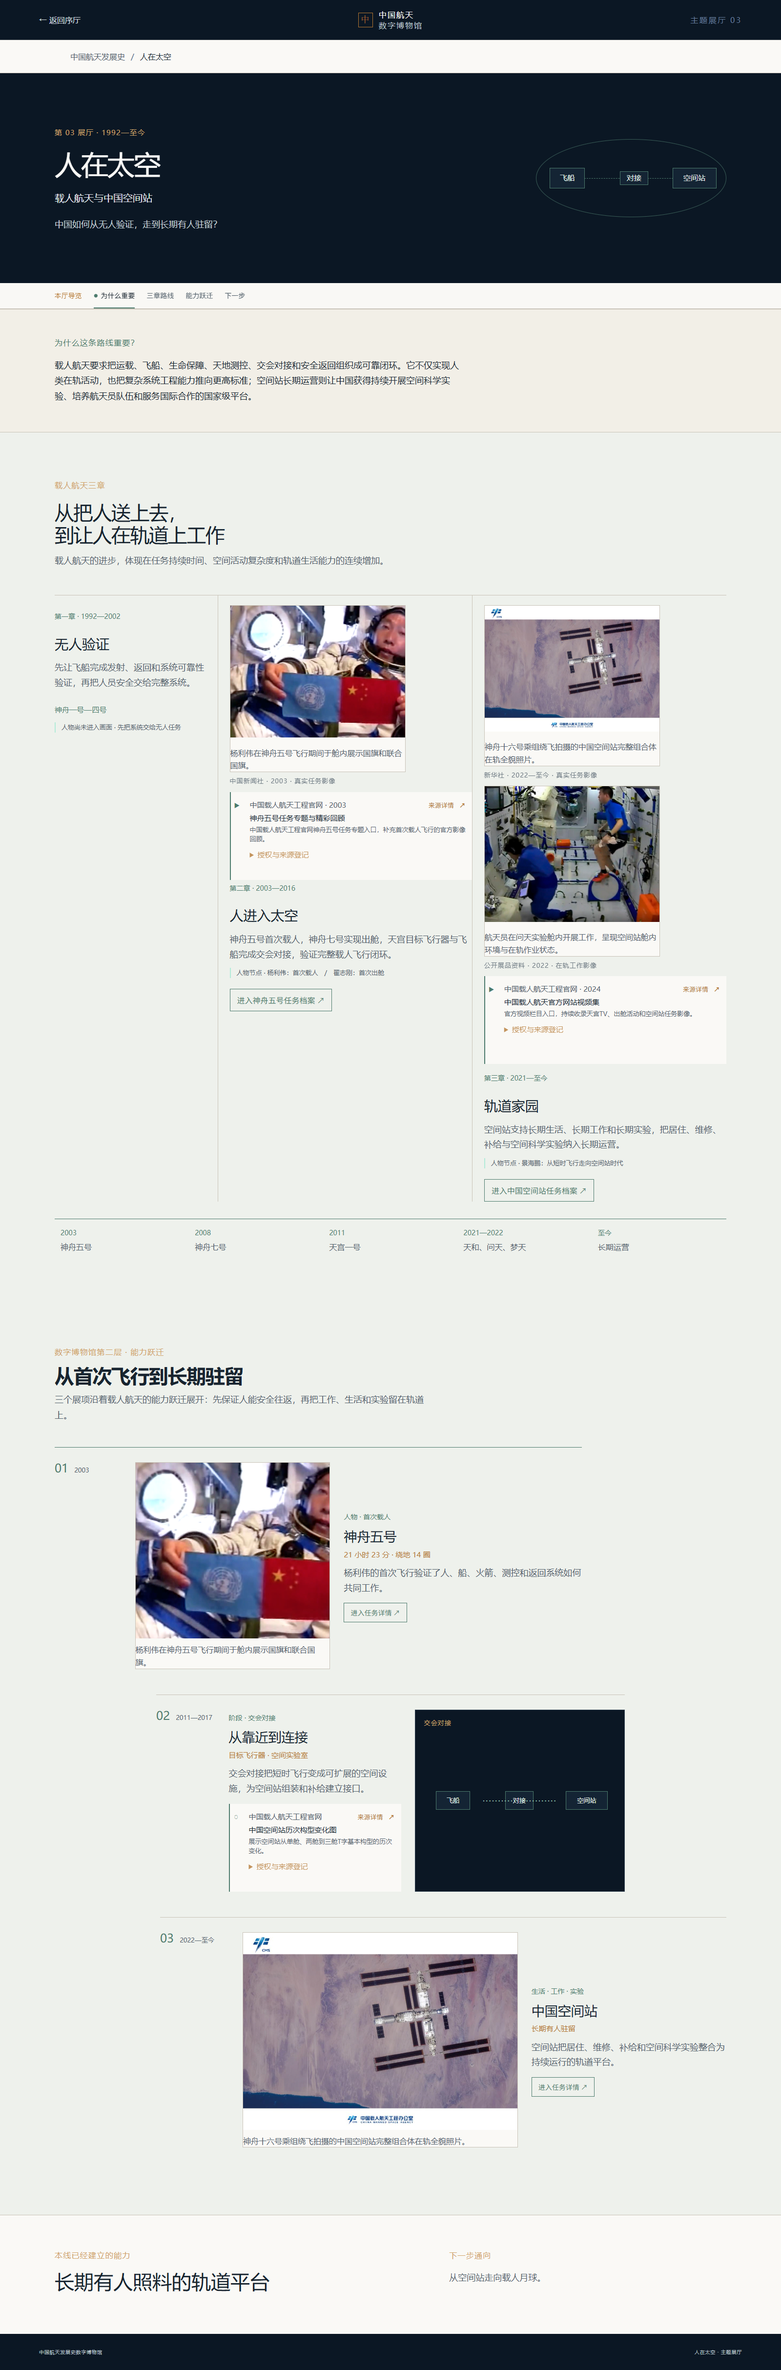
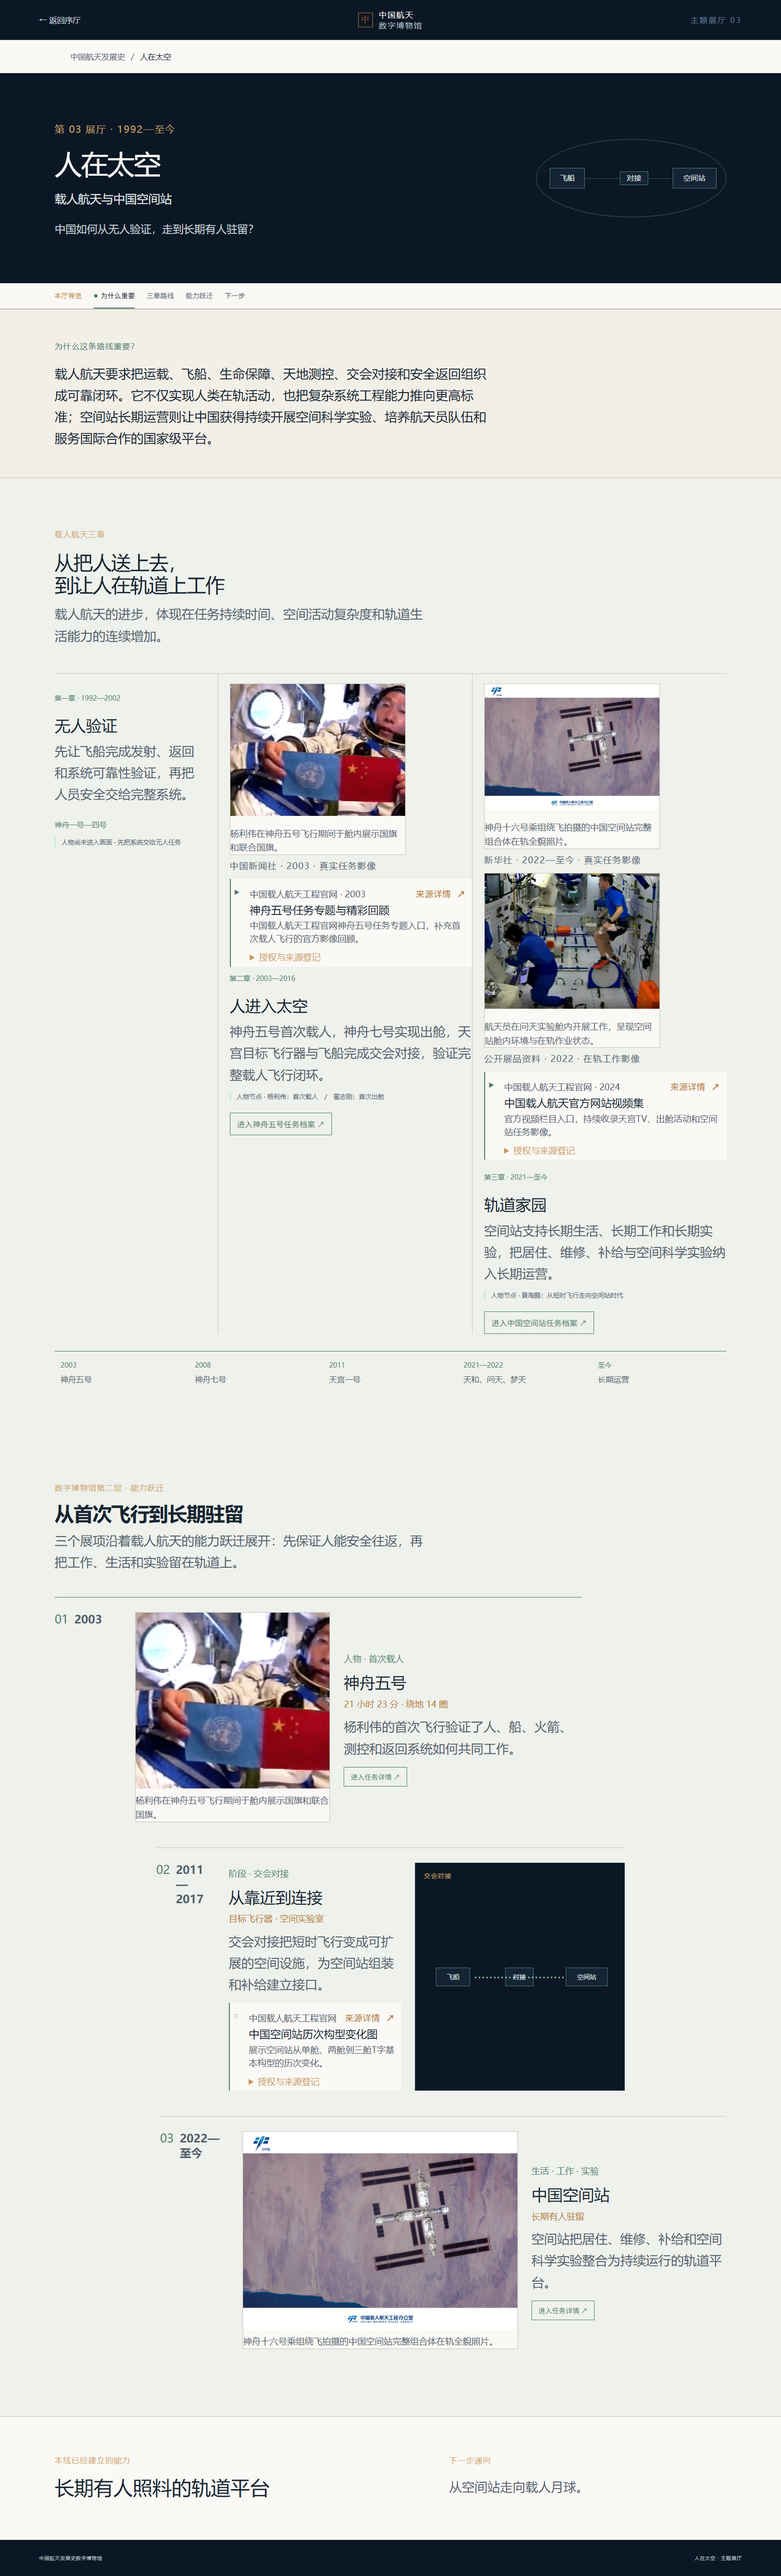
V5.0-PC：大字号可读性优化

diff --git a/src/e3.css b/src/e3.css
@@ -842,3 +842,169 @@ button:focus-visible, a:focus-visible { outline-color: var(--museum-bronze); }
   .lunar-route-map .lunar-side-branch::before { display: none; }
   .planetary-engineering-chain { grid-template-columns: 1fr; gap: 18px; }
 }
+
+/* V5.0 PC readability pass: exhibition copy is intentionally spacious; mobile remains unchanged. */
+@media (min-width: 801px) {
+  :root {
+    --font-body: 24px;
+    --font-body-core: 26px;
+    --font-exhibit: 32px;
+    --font-year: 23px;
+    --font-caption: 18px;
+    --font-meta: 18px;
+  }
+
+  .museum-prologue {
+    padding-top: 112px;
+    padding-bottom: 112px;
+  }
+  .prologue-register {
+    column-gap: 48px;
+    row-gap: 30px;
+  }
+  .prologue-register article {
+    min-height: 0;
+    padding: 10px 24px 30px 0;
+  }
+  .prologue-register time {
+    font: 600 var(--font-year)/1.2 'DM Mono';
+  }
+  .prologue-register h3 {
+    margin: 18px 0 12px;
+    font-size: var(--font-exhibit);
+    line-height: 1.25;
+  }
+  .prologue-register p {
+    max-width: 25em;
+    font-size: var(--font-body-core);
+    line-height: 1.7;
+  }
+
+  .timeline-compact-wall time {
+    font-size: var(--font-year);
+    font-weight: 600;
+  }
+  .timeline-compact-wall h3,
+  .timeline-compact-wall > article[data-emphasis="major"] h3 {
+    font-size: var(--font-exhibit);
+    line-height: 1.3;
+  }
+  .timeline-compact-wall p {
+    max-width: 20em;
+    font-size: var(--font-body);
+    line-height: 1.7;
+  }
+  .tech-section--compact .tech-branch h3 {
+    font-size: 30px;
+    line-height: 1.3;
+  }
+  .tech-section--compact .tech-branch p {
+    max-width: 18em;
+    font-size: var(--font-body);
+    line-height: 1.7;
+  }
+  .tech-section--compact .branch-relation {
+    font-size: 18px;
+    line-height: 1.6;
+  }
+
+  .story-page .story-hero .section-kicker { font-size: 20px; }
+  .story-page .story-subtitle { font-size: 24px; }
+  .story-page .story-question { font-size: 22px; line-height: 1.7; }
+  .story-page .story-why p {
+    max-width: 34em;
+    font-size: var(--font-body-core);
+    line-height: 1.7;
+  }
+  .story-page .story-heading p,
+  .story-page .story-tail p,
+  .deep-dive-heading p {
+    max-width: 34em;
+    font-size: var(--font-body-core);
+    line-height: 1.7;
+  }
+  .story-page .story-node {
+    font-size: 20px;
+    line-height: 1.5;
+  }
+  .story-page .story-node b { font-size: var(--font-year); font-weight: 600; }
+  .story-page time,
+  .story-page .grand-node time,
+  .story-page .deep-dive-meta time { font-size: var(--font-year); line-height: 1.3; font-weight: 600; }
+
+  .launch-step h3,
+  .satellite-use-cases h3,
+  .human-chapters h3,
+  .planetary-anchor-grid h3,
+  .deep-dive-copy h3 {
+    font-size: var(--font-exhibit);
+    line-height: 1.3;
+  }
+  .launch-step p,
+  .satellite-use-cases p,
+  .human-chapters p,
+  .planetary-anchor-grid p,
+  .deep-dive-copy > p,
+  .launch-support-copy p,
+  .lunar-sample-note p,
+  .planetary-chain-intro p,
+  .planetary-chain-items p {
+    max-width: 34em;
+    font-size: var(--font-body-core);
+    line-height: 1.7;
+  }
+  .launch-step small,
+  .satellite-use-cases strong,
+  .launch-capability-chain strong,
+  .human-people-strip strong,
+  .lunar-sample-note strong,
+  .planetary-engineering-chain strong,
+  .planetary-chain-items strong {
+    font-size: 22px;
+    line-height: 1.45;
+  }
+  .launch-capability-chain p,
+  .human-people-strip p,
+  .planetary-engineering-chain p,
+  .satellite-use-case-note,
+  .lunar-branch-sequence article span {
+    font-size: 20px;
+    line-height: 1.7;
+  }
+  .lunar-route-map .lunar-main-route h3,
+  .lunar-side-branch header strong {
+    font-size: 30px;
+    line-height: 1.3;
+  }
+
+  .deep-dive-copy > strong,
+  .deep-dive-copy > span,
+  .planetary-chain-intro span,
+  .planetary-chain-items span { font-size: 18px; }
+  .deep-dive-item .asset-media figcaption,
+  .story-page .asset-media figcaption,
+  .story-media-caption,
+  .story-media-attribution,
+  .story-page .story-media-meta,
+  .story-media .official-media-attribution { font-size: var(--font-caption) !important; line-height: 1.6; opacity: 1; }
+
+  .official-media-source-line > span,
+  .official-media-source-line > a,
+  .official-media-copy .official-media-source-line > a,
+  .official-media-details,
+  .official-media-details summary,
+  .official-media-details dl,
+  .official-media-details dd a,
+  .story-page .story-media .official-media-copy > span,
+  .story-page .story-media .official-media-copy a,
+  .story-page .story-media .official-media-status,
+  .story-page .story-media .official-media-details {
+    font-size: var(--font-meta) !important;
+    line-height: 1.6;
+  }
+  .official-media-source-line { flex-wrap: wrap; }
+  .official-media-source-line > span { white-space: normal; overflow-wrap: anywhere; }
+  .story-media .official-media-copy h3 { font-size: 22px !important; line-height: 1.35; }
+  .story-media .official-media-copy p { font-size: 18px !important; line-height: 1.6; }
+  .official-media-details dl > div { grid-template-columns: 96px minmax(0, 1fr); }
+}

diff --git a/docs/iterations/v5.0-readability-pc.md b/docs/iterations/v5.0-readability-pc.md
@@ -1,0 +1,87 @@
+# V5.0 PC 可读性字号审计
+
+本记录对应“V5.0 PC 端大字号可读性修正”。修改前数据由本地 Vite 页面在 Microsoft Edge/Playwright、1600×900、100% 浏览器缩放下，通过 `getComputedStyle()` 实际读取；不是依据 CSS 源码声明推测。采样时间：2026-08-27。
+
+## 修改前实际字号
+
+### 首页
+
+| 元素 | 实际 font-size | line-height | font-weight |
+| --- | ---: | ---: | ---: |
+| Hero 主标题《中国航天发展史》 | 64px | 71.68px | 500 |
+| 五条主线标题 | 40px | 48px | 500 |
+| 入馆导言标题 | 50px | 59px | 500 |
+| 入馆导言年份（1956 等） | 14px | normal | 400 |
+| 入馆导言节点标题 | 21px | 35.7px | 500 |
+| 入馆导言节点正文 | 18px | 30.6px | 400 |
+| 关键时刻时间节点（代表采样） | 18px | 24.3px | 400 |
+| 关键时刻节点正文（代表采样） | 14px | 23.1px | 400 |
+| 技术底座卡片正文（代表采样） | 16px | 27.2px | 400 |
+
+### 五个 Grand Hall
+
+以下为五厅中代表性元素的实际采样；不同展厅会因自身知识结构选择不同的故事标题，但共同问题相同。
+
+| 页面 | Section 标题 | 展项/节点标题 | 普通解释正文 | 年份/时间 | Caption | Metadata | 来源详情摘要 |
+| --- | ---: | ---: | ---: | ---: | ---: | ---: | ---: |
+| 进入太空 | 40px / 46px | 21px / 35.7px | 18px / 31.5px | 13px / normal | 16px / 25.6px | 15px / 24px | 15px / 24px |
+| 天基中国 | 40px / 46px | 29px / 34.8px | 18px / 31.5px | 13px / normal | 16px / 25.6px | 15px / 24px | 15px / 24px |
+| 人在太空 | 40px / 46px | 28px / 47.6px | 18px / 31.5px | 13px / normal | 16px / 25.6px | 13px / 20.8px | 15px / 24px |
+| 奔向月球 | 40px / 46px |  — | 18px / 31.5px | 13px / normal | 16px / 25.6px | 15px / 24px | 15px / 24px |
+| 走向行星 | 40px / 46px | 27px / 45.9px | 18px / 31.5px | 13px / normal | 16px / 25.6px | 13px / 20.8px | 15px / 24px |
+
+表中每格的格式是 `font-size / line-height`。展厅 Hero 主标题实际通过页面首个 `h1` 采样，保持现有人工验收通过的标题层级，不作为本轮强制放大对象。
+
+## 本轮目标层级
+
+本轮只增加 PC 规则（`@media (min-width: 801px)`），移动端规则不变：
+
+- 普通正文：24px，line-height 1.7。
+- 核心解释与展厅主要正文：26px，line-height 1.7–1.75；首页入馆导言节点正文提升到 26px，作为展陈式重点说明。
+- Section 标题：保持原有约 40px 的稳定层级，不继续放大 Hero 或 Section 标题。
+- 展项/故事节点标题：主要展项提升到约 30px；不再让重点标题落到 21px 左右。
+- 年份与时间节点：22px 左右并提高字重，普通纯装饰编号除外。
+- 小栏目标签：保持信息层级，不把纯装饰性编号误当作正文。
+- 图片 Caption：18px；保留清楚的图注行高，避免与图片争夺主体。
+- Metadata、来源机构、许可摘要：18px，展开登记保持可读但不压过展品。
+
+首页入馆导言是本轮重点：年份目标 22–24px，节点标题目标 30–34px，正文目标 26–28px，允许该区域自然变高。其余展厅在不重做结构的前提下同步提高主要解释文本与展项标题的可读性。
+
+## 验收原则
+
+放大文本后优先增加纵向长度、段落间距和局部 padding，不通过固定高度裁切内容；正文保持适合阅读的最大宽度；标题不随正文规则被意外同步放大。最终使用 1600×900 PC 截图、100%/125%/150%/200% 浏览器缩放检查，并保留六张正式截图和六张局部可读性截图。
+
+## 修改后实际字号抽样
+
+同样通过 1600×900、100% 浏览器的 `getComputedStyle()` 复测：
+
+| 页面/元素 | font-size | line-height | font-weight |
+| --- | ---: | ---: | ---: |
+| 首页 Hero 主标题 | 64px | 71.68px | 500 |
+| 首页五条主线标题 | 40px | 48px | 500 |
+| 首页入馆导言年份 | 23px | 27.6px | 600 |
+| 首页入馆导言节点标题 | 32px | 40px | 500 |
+| 首页入馆导言节点正文 | 26px | 44.2px | 400 |
+| 五厅 Hero 主标题（抽样） | 56px | 67.2px | 500 |
+| 五厅 Section 标题（抽样） | 40px | 46px | 500 |
+| 五厅年份/时间节点（抽样） | 23px | 约 29.9px | 600 |
+| 五厅展项标题（抽样） | 32px | 41.6px | 500 |
+| 五厅核心解释正文（抽样） | 26px | 44.2px | 400 |
+| 图片 Caption（抽样） | 18px | 28.8px | 400 |
+| 来源机构 Metadata（抽样） | 18px | 28.8px | 400 |
+| 来源详情摘要 | 18px | 28.8px | 400 |
+
+页面首个 Hero/Section 标题维持原有层级；本轮主要改变正文、年份、展项标题和来源信息的实际阅读尺度，并允许长页面自然变长。
+
+## 多档缩放验收
+
+本地 Vite 页面在 Microsoft Edge 下检查首页、五个 Grand Hall（进入太空、天基中国、人在太空、奔向月球、走向行星）及旧任务页“神舟五号”；每档均检查控制台错误、HTTP 4xx/5xx、图片自然宽度和横向溢出。
+
+| 浏览器缩放 | 页面范围 | Console error | HTTP 4xx/5xx | Broken image | 横向溢出 |
+| ---: | --- | ---: | ---: | ---: | ---: |
+| 100% | 首页 + 五厅 + 神舟五号 | 0 | 0 | 0 | 0 |
+| 125% | 首页 + 五厅 + 神舟五号 | 0 | 0 | 0 | 0 |
+| 150% | 首页 + 五厅 + 神舟五号 | 0 | 0 | 0 | 0 |
+| 200% | 首页 + 五厅 + 神舟五号 | 0 | 0 | 0 | 0 |
+
+`npm.cmd run build` 通过；仅保留既有的 SpaceScene 大 chunk warning。最终正式截图为 `docs/screenshots/review/latest/` 与 `docs/screenshots/v5.0/` 各六张 1600×900 PC fullPage PNG，局部可读性截图位于 `docs/screenshots/review/readability/`。
